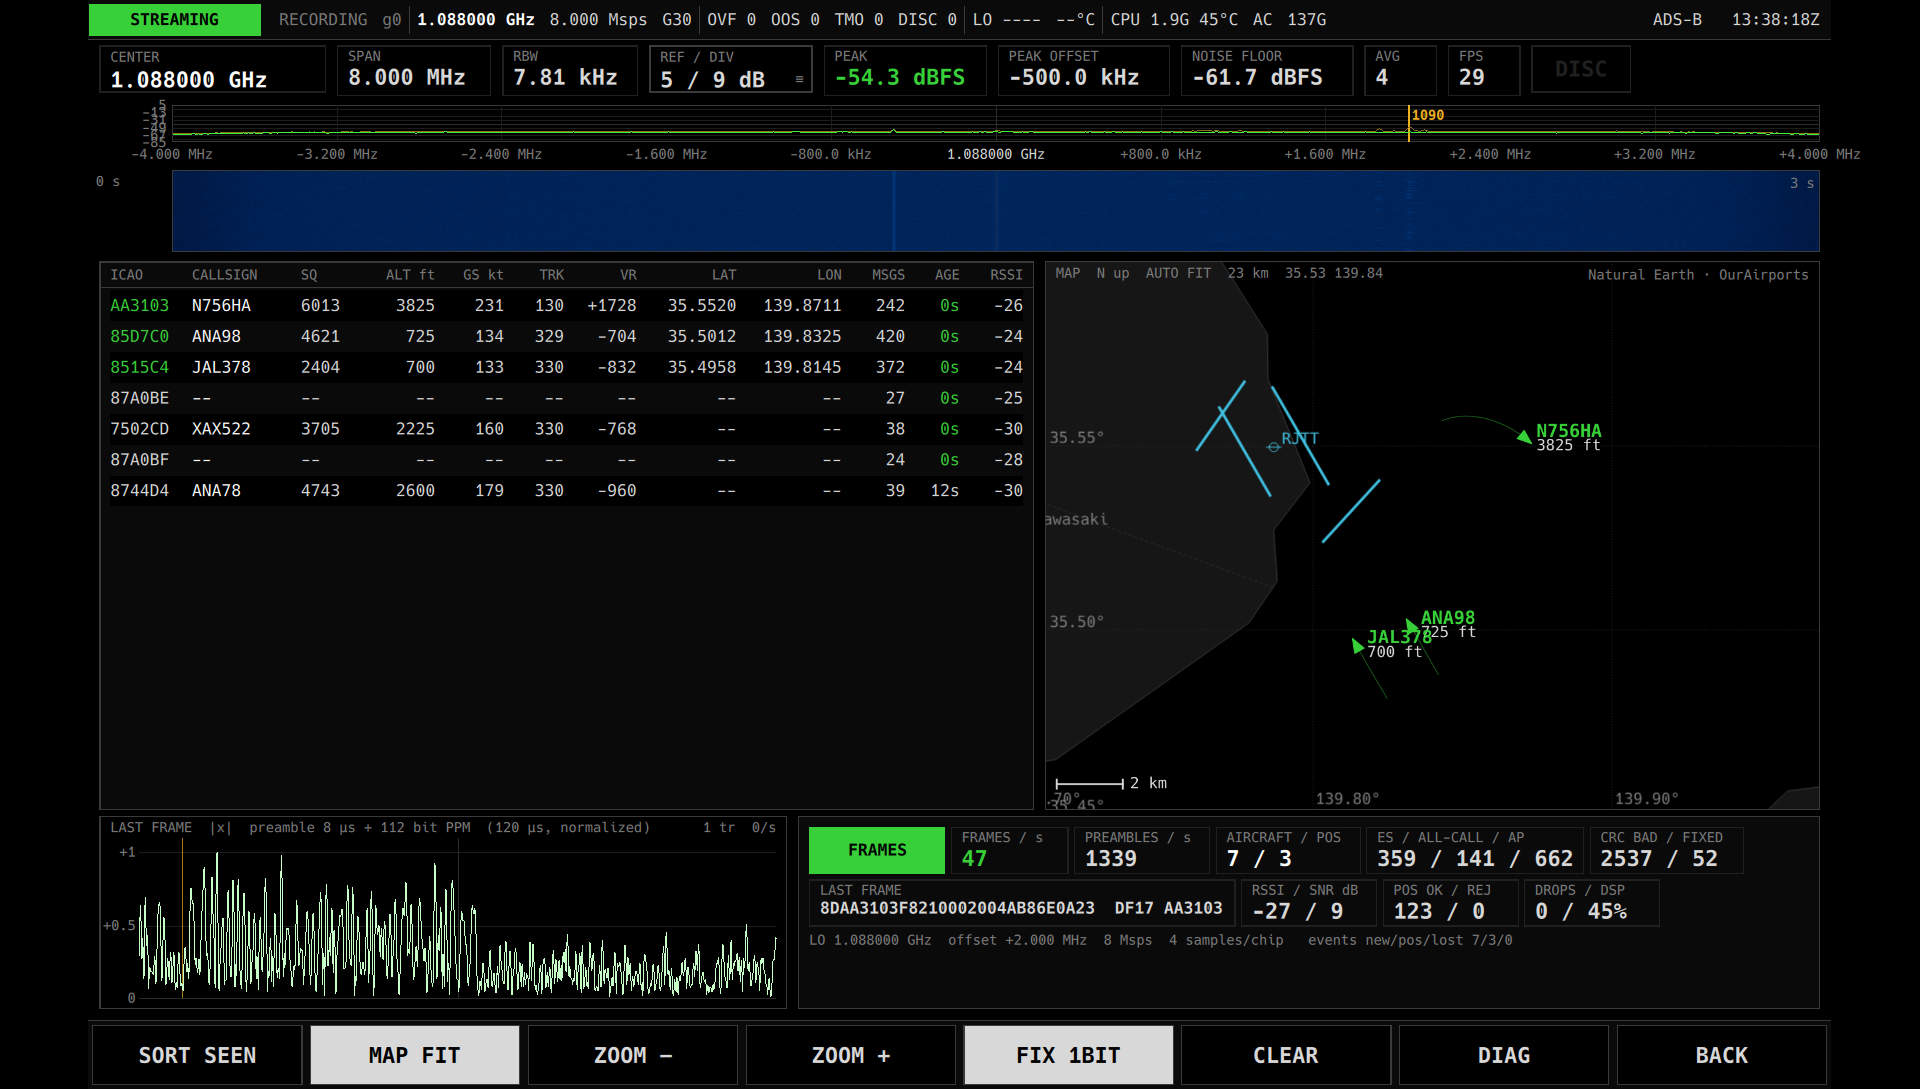
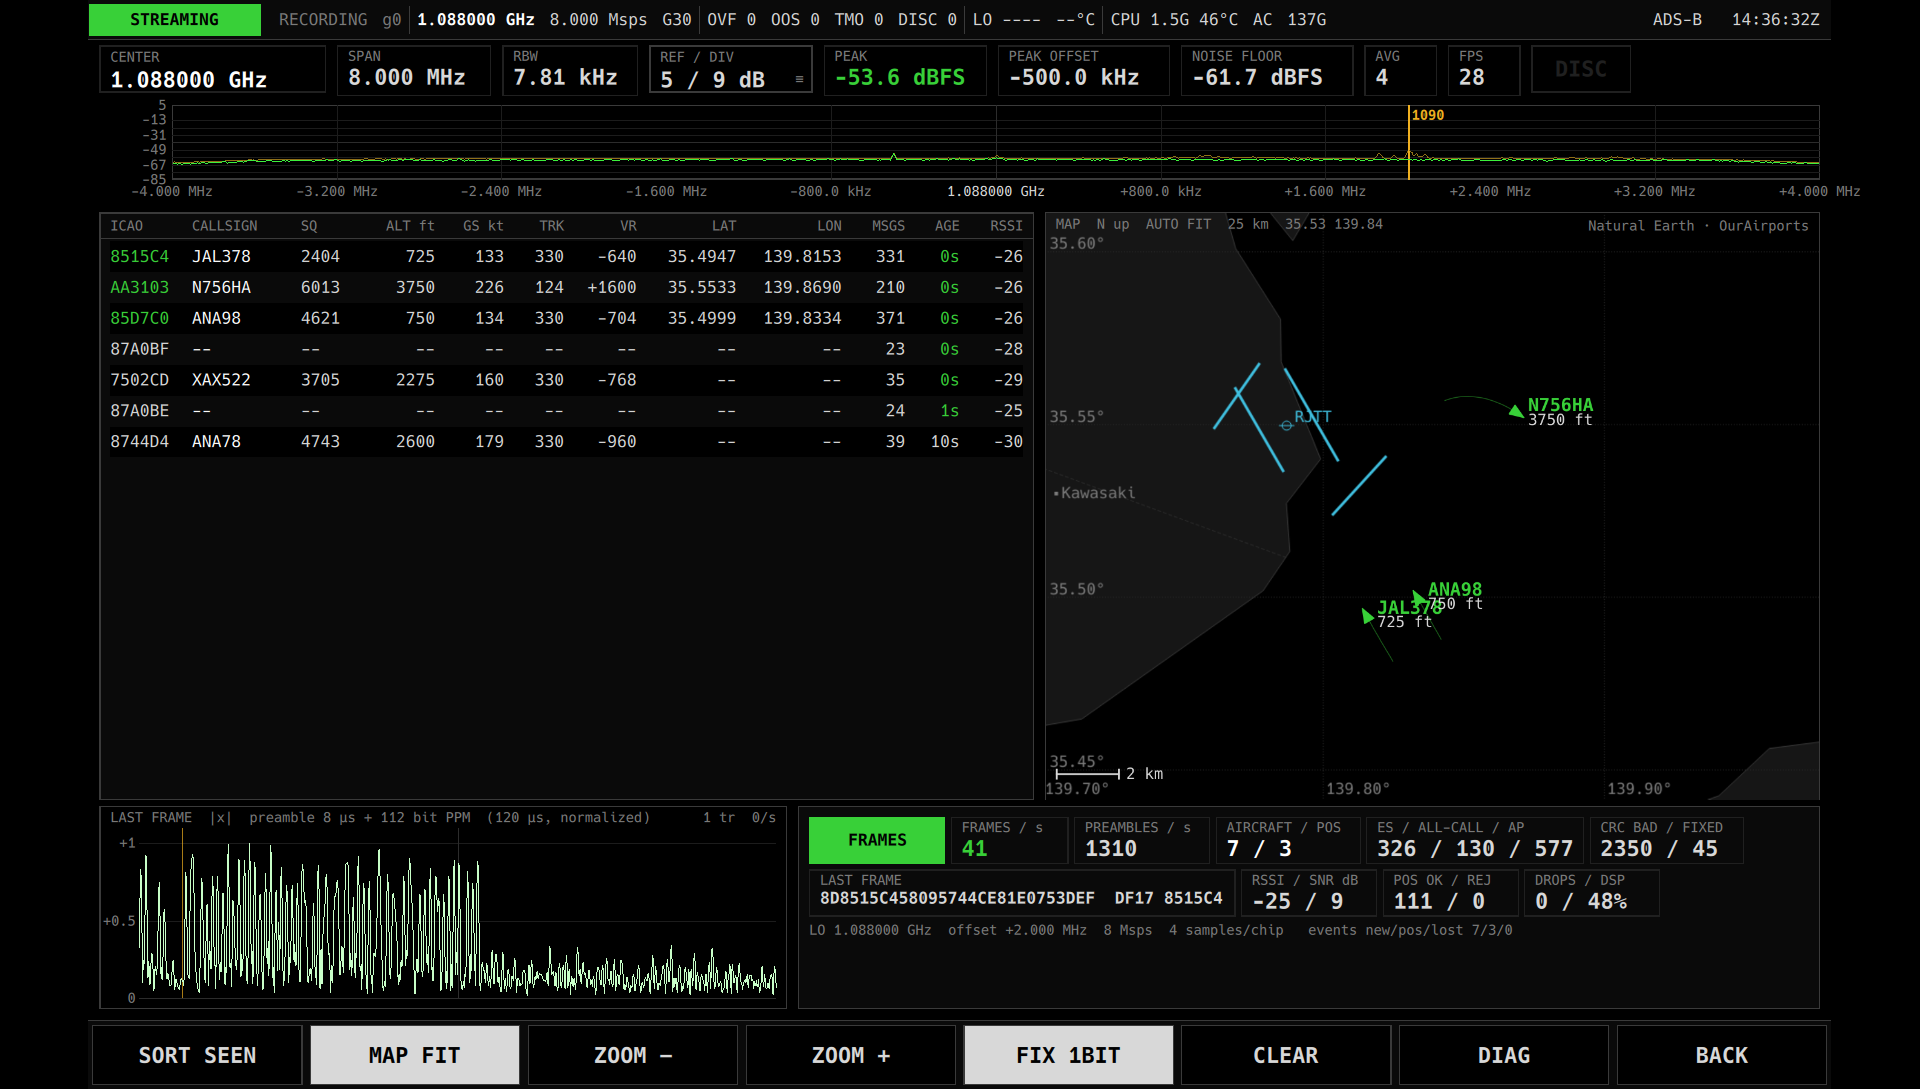
ADS-B: ウォーターフォールを消す(優先度の低い情報)。SpectrumView に showWaterfall を追加
上のスペクトラムはアンテナと利得の確認用だけなので時間変化は要らない。空いた分を表と地図に回した。

diff --git a/widgets/qml/SpectrumView.qml b/widgets/qml/SpectrumView.qml
@@ -17,6 +17,7 @@ Item {
     // 複数マーカー: [{hz, label, color}] (多チャネル App 用。label/color は省略可)
     property var markers: []
     property bool compact: false           // 狭い場所用: 読み出し行を省き、周波数軸ラベルを間引く
+    property bool showWaterfall: true      // false: ウォーターフォールを出さずスペクトラムに全高を使う(時間変化が要らない App)
     signal askFreq()
     signal askRef()
     readonly property double dbMin: source ? source.dbMin : -110
@@ -52,7 +53,7 @@ Item {
     Item {
         id: specArea
         x: 0; y: page.compact ? 4 : readouts.y + readouts.height + 6
-        width: parent.width; height: Math.round((parent.height - y) * 0.42)
+        width: parent.width; height: page.showWaterfall ? Math.round((parent.height - y) * 0.42) : parent.height - y - 4
         readonly property int axisW: 92
         readonly property int axisH: 26
         Item {
@@ -127,6 +128,7 @@ Item {
 
     // ---- ウォーターフォール ----
     Item {
+        visible: page.showWaterfall
         x: specArea.axisW; y: specArea.y + specArea.height + 4
         width: specArea.width - specArea.axisW - Theme.pad; height: parent.height - y - 4
         Rectangle { anchors.fill: parent; color: Theme.bg; border.color: Theme.line; border.width: 1 }
@@ -138,5 +140,5 @@ Item {
         Rectangle { x: Math.round(parent.width / 2); y: 1; width: 1; height: parent.height - 2; color: Theme.gridMajor; opacity: 0.6 }
     }
     // 経過秒ラベル(左)
-    Text { x: 8; y: specArea.y + specArea.height + 8; text: "0 s"; color: Theme.textDim; font.family: Theme.mono; font.pixelSize: Theme.fsSmall }
+    Text { visible: page.showWaterfall; x: 8; y: specArea.y + specArea.height + 8; text: "0 s"; color: Theme.textDim; font.family: Theme.mono; font.pixelSize: Theme.fsSmall }
 }

diff --git a/apps/adsb/AdsbPage.qml b/apps/adsb/AdsbPage.qml
@@ -1,5 +1,5 @@
 // ADS-B のページ (1920×1200)
-//   上 : radio.rx のスペクトラム(8 MHz、1090 MHz にマーカー。アンテナと利得の確認用)
+//   上 : radio.rx のスペクトラム(8 MHz、1090 MHz にマーカー。アンテナと利得の確認用。ウォーターフォールは出さない: 優先度が低い)
 //   中 : 左 航空機表(タップで選択)/ 右 ミニマップ(埋め込み地図、位置のある全機が収まるよう自動フィット。ドラッグ / ピンチで手動、FIT で戻す)
 //   下 : 最後に受理したフレームの振幅窓(プリアンブル 8 µs + データ)/ 読み出し(レート・機数・CRC・drops・DSP)
 // LO / rate は App が決める(1090 MHz − loOffset、8 Msps)ので操作キーは置かない。GPS は無いので地図は機体の位置だけから決める。
@@ -42,8 +42,8 @@ Item {
     SpectrumView {
         id: wide
         anchors.top: parent.top; anchors.left: parent.left; anchors.right: parent.right
-        height: Math.round(parent.height * 0.22)
-        source: app.view; centerFreq: sys.centerFreq; centerEditable: false
+        height: Math.round(parent.height * 0.17)
+        source: app.view; centerFreq: sys.centerFreq; centerEditable: false; showWaterfall: false
         markerHz: 1090e6 - sys.centerFreq; markerLabel: "1090"
         onAskRef: ui.askRef(app.view.dbMax, (v) => { app.view.dbMin = v - 90; app.view.dbMax = v })
     }
@@ -53,7 +53,7 @@ Item {
         id: middle
         anchors.top: wide.bottom; anchors.left: parent.left; anchors.right: parent.right
         anchors.margins: Theme.pad; anchors.topMargin: 6
-        height: Math.round(page.height * 0.56)
+        height: Math.round(page.height * 0.60)
 
         // 列定義(名前, 幅, キー, 右寄せ)
         readonly property var cols: [
